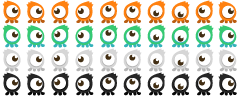
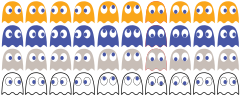
update 06
cambio en la imagen del pacman y fantasmas

diff --git a/js/canvas.js b/js/canvas.js
@@ -164,13 +164,13 @@ function buildGameCanvas(){
 		$.players[n] = new createjs.Container();
 
 		$.players["name" + n] = new createjs.Text();
-		$.players["name" + n].font = "25px upheaval_tt_brkregular";
+		$.players["name" + n].font = "25px Brandon_blk_it";
 		$.players["name" + n].color = "#fff";
 		$.players["name" + n].textAlign = isEven(n) == true ? "left" : "right";
 		$.players["name" + n].textBaseline='alphabetic';
 
 		$.players["score" + n] = new createjs.Text();
-		$.players["score" + n].font = "25px upheaval_tt_brkregular";
+		$.players["score" + n].font = "25px Brandon_blk_it";
 		$.players["score" + n].color = "#fff";
 		$.players["score" + n].textAlign = isEven(n) == true ? "left" : "right";
 		$.players["score" + n].textBaseline='alphabetic';
@@ -220,21 +220,21 @@ function buildGameCanvas(){
 	centerReg(buttonContinue);
 	
 	resultShareTxt = new createjs.Text();
-	resultShareTxt.font = "35px upheaval_tt_brkregular";
+	resultShareTxt.font = "35px Brandon_blk_it";
 	resultShareTxt.color = '#fff';
 	resultShareTxt.textAlign = "center";
 	resultShareTxt.textBaseline='alphabetic';
 	resultShareTxt.text = textDisplay.share;
 	
 	resultTitleTxt = new createjs.Text();
-	resultTitleTxt.font = "60px upheaval_tt_brkregular";
+	resultTitleTxt.font = "60px Brandon_blk_it";
 	resultTitleTxt.color = '#fff';
 	resultTitleTxt.textAlign = "center";
 	resultTitleTxt.textBaseline='alphabetic';
 	resultTitleTxt.text = textDisplay.resultTitle;
 	
 	resultDescTxt = new createjs.Text();
-	resultDescTxt.font = "65px upheaval_tt_brkregular";
+	resultDescTxt.font = "65px Brandon_blk_it";
 	resultDescTxt.color = '#43B3EA';
 	resultDescTxt.textAlign = "center";
 	resultDescTxt.textBaseline='alphabetic';
@@ -292,14 +292,14 @@ function buildGameCanvas(){
 	centerReg(buttonCancel);
 	
 	popTitleTxt = new createjs.Text();
-	popTitleTxt.font = "60px upheaval_tt_brkregular";
+	popTitleTxt.font = "60px Brandon_blk_it";
 	popTitleTxt.color = "#fff";
 	popTitleTxt.textAlign = "center";
 	popTitleTxt.textBaseline='alphabetic';
 	popTitleTxt.text = textDisplay.exitTitle;
 	
 	popDescTxt = new createjs.Text();
-	popDescTxt.font = "40px upheaval_tt_brkregular";
+	popDescTxt.font = "40px Brandon_blk_it";
 	popDescTxt.lineHeight = 45;
 	popDescTxt.color = "#fff";
 	popDescTxt.textAlign = "center";
@@ -314,7 +314,7 @@ function buildGameCanvas(){
 	nameContainer = new createjs.Container();
 
 	gameLogsTxt = new createjs.Text();
-	gameLogsTxt.font = "30px upheaval_tt_brkregular";
+	gameLogsTxt.font = "30px Brandon_blk_it";
 	gameLogsTxt.color = "#ccc";
 	gameLogsTxt.textAlign = "center";
 	gameLogsTxt.textBaseline='alphabetic';
@@ -427,7 +427,7 @@ function changeCanvasViewport(){
 			resultTitleTxt.y = canvasH/100 * 35;
 	
 			resultDescTxt.x = canvasW/2;
-			resultDescTxt.y = canvasH/100 * 42;
+			resultDescTxt.y = canvasH/100 * 44;
 			
 			//exit
 			itemExit.visible = true;

diff --git a/js/game.js b/js/game.js
@@ -240,26 +240,26 @@ var mapSettings = {
 
 //game text display
 var textDisplay = {
-	gameReady:'GET READY!',
-	gameReadyLevel:'LEVEL [NUMBER]',
+	gameReady:'¡PREPARADO!',
+	gameReadyLevel:'NIVEL [NUMBER]',
 	gameCountdown:["1","2","3"],
-	gameOver:'GAME OVER',
-	gameClear:'LEVEL CLEAR',
-	gameScore:"SCORE : [NUMBER]PTS",
-	gameLevel:"LEVEL : [NUMBER]",
+	gameOver:'FIN DEL JUEGO',
+	gameClear:'BORRAR NIVEL',
+	gameScore:"PUNTOS : [NUMBER]PTS",
+	gameLevel:"NIVEL : [NUMBER]",
 	multiplayerName:"P[NUMBER] : ",
 	multiplayerIndicator:"P[NUMBER]",
-	exitTitle:'Exit Game',
-	exitMessage:'Are you sure you want\nto quit game?',
-	share:'Share your score:',
-	resultTitle:'GAME OVER',
+	exitTitle:'Salir del juego',
+	exitMessage:'¿Estás seguro de que\nquieres salir del juego?',
+	share:'Comparte tu puntuación:',
+	resultTitle:'FIN DEL JUEGO',
 	resultDesc:'[NUMBER]PTS',
 }
 
 //Social share, [SCORE] will replace with game score
-var shareEnable = true; //toggle share
-var shareTitle = 'Highscore on Pac Man is [SCORE]pts';//social share score title
-var shareMessage = '[SCORE]pts is mine new highscore on Pac Man game! Try it now!'; //social share score message
+var shareEnable = false; //toggle share
+var shareTitle = 'La puntuación más alta en Pac Man es [SCORE]pts';//social share score title
+var shareMessage = '![SCORE]pts es mi nueva puntuación en el juego Pac Man!¡Pruebalo ahora!'; //social share score message
 
 /*!
  *
